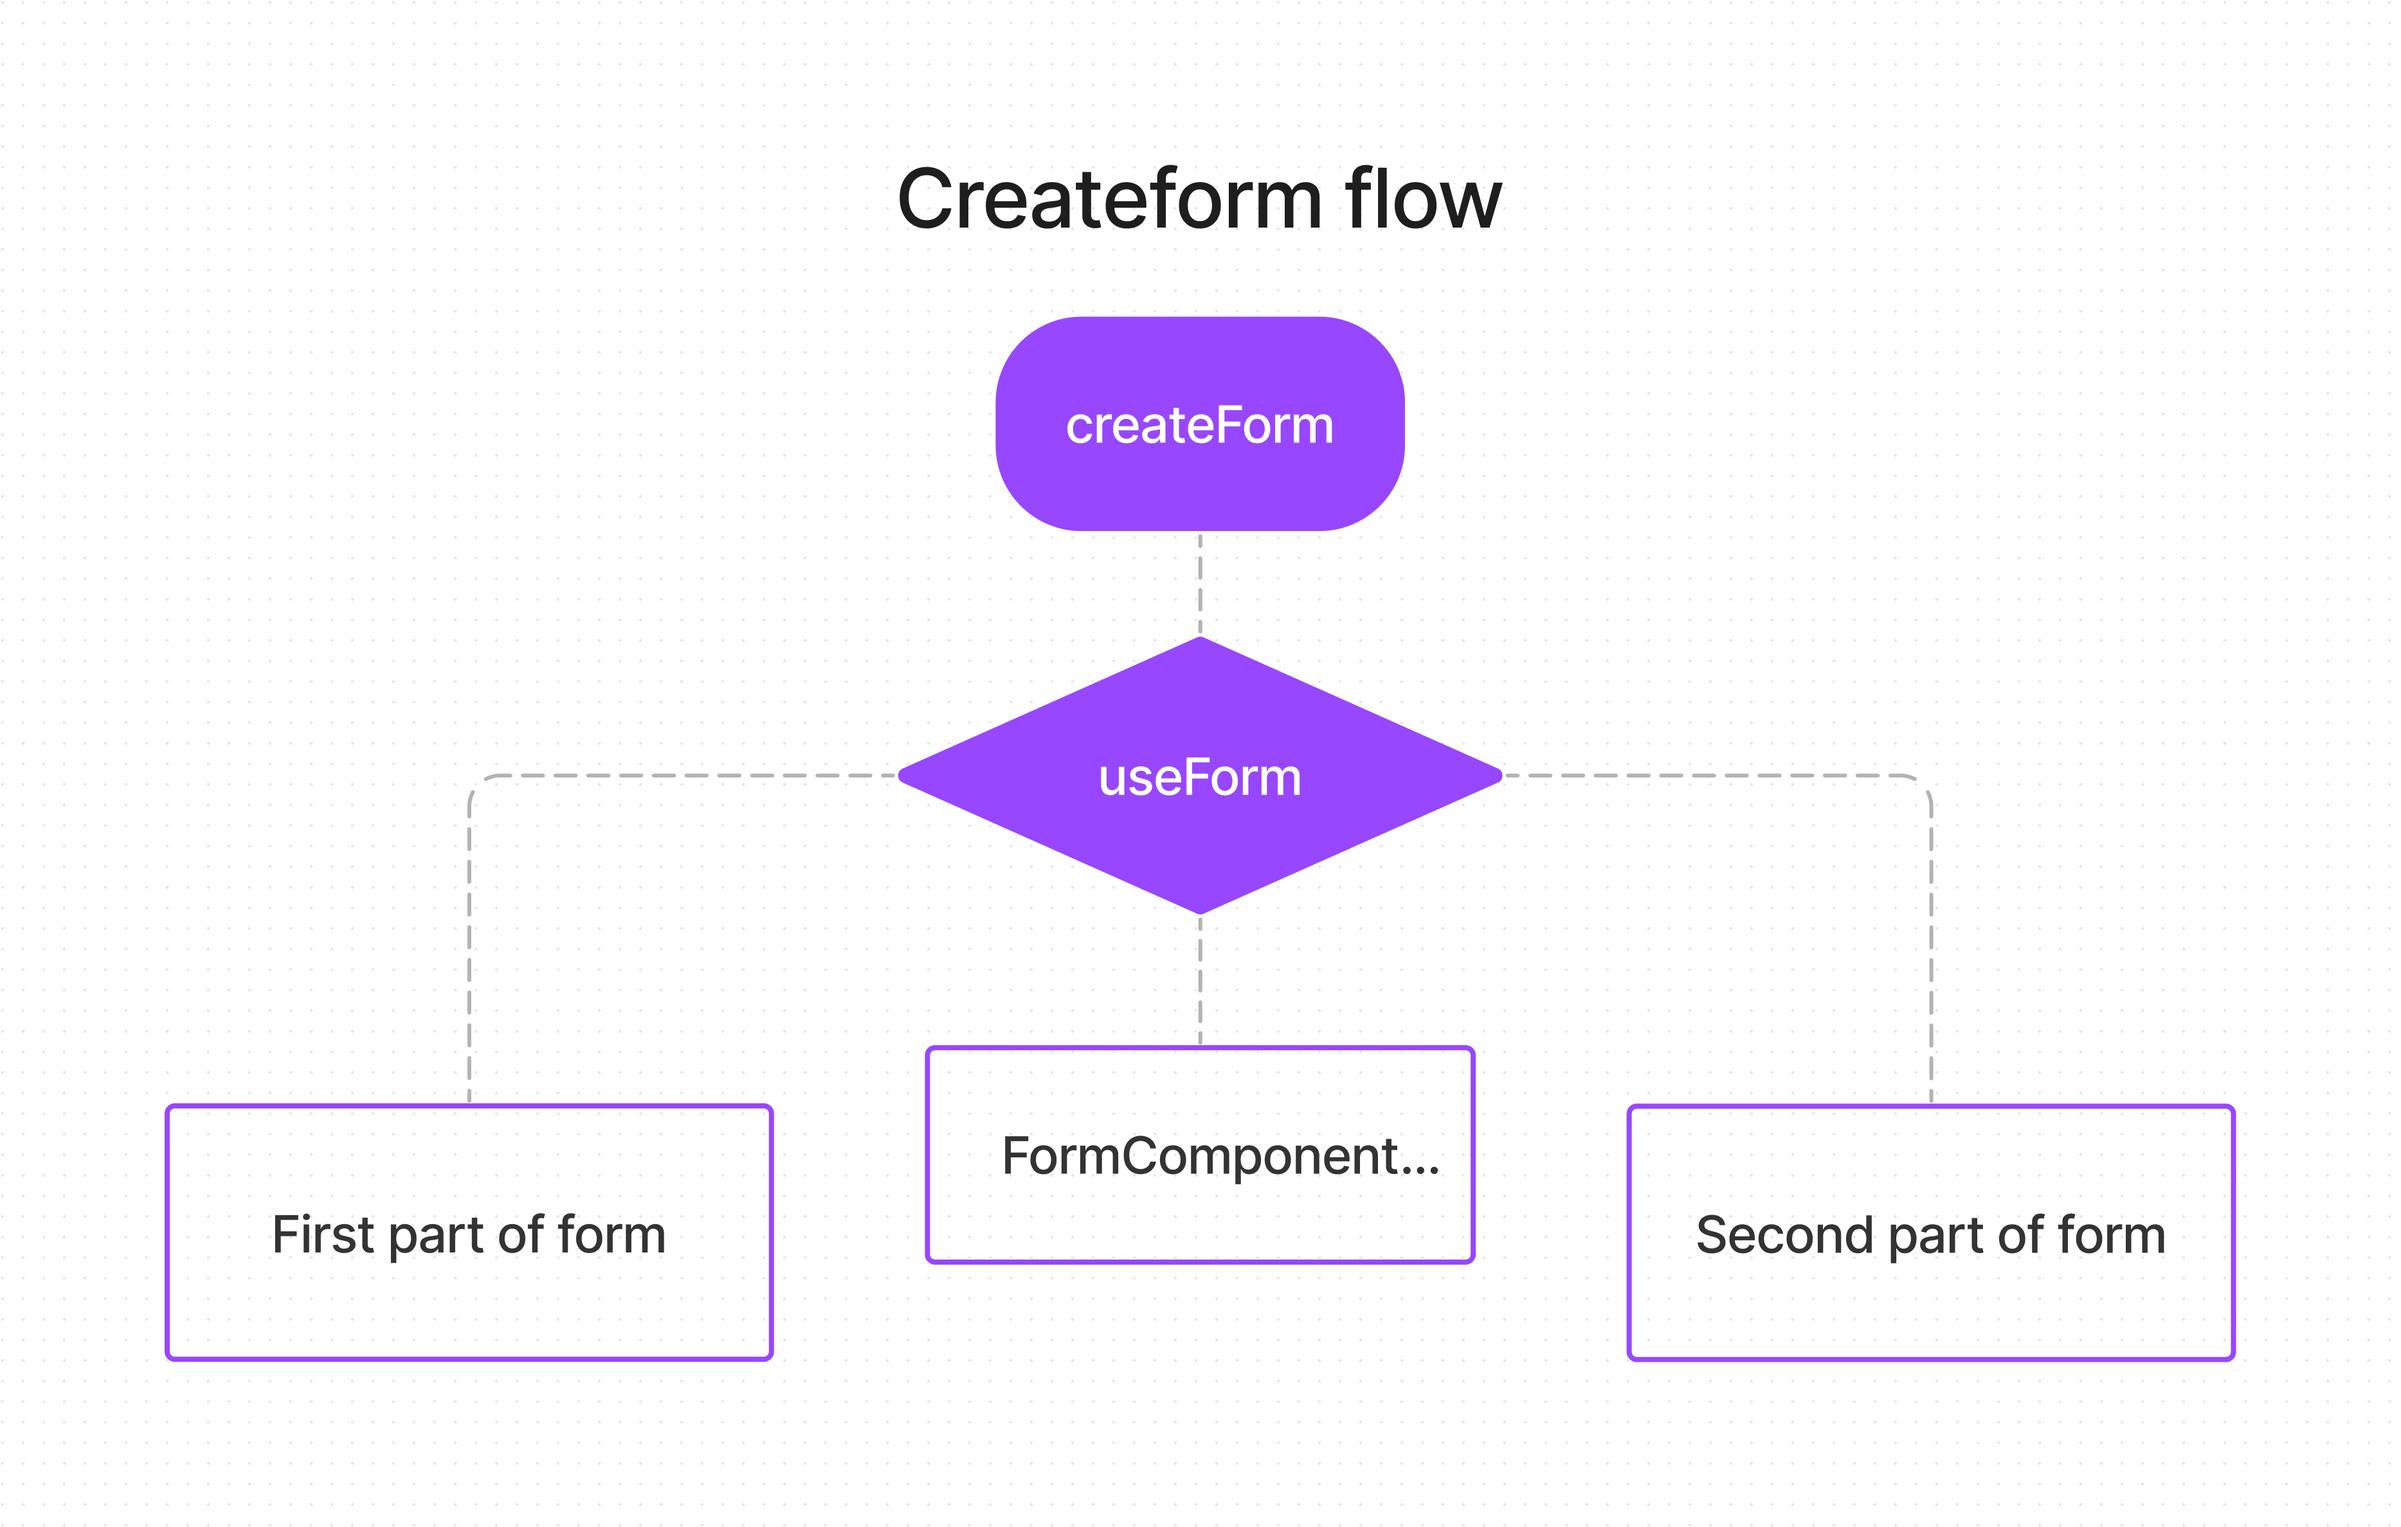
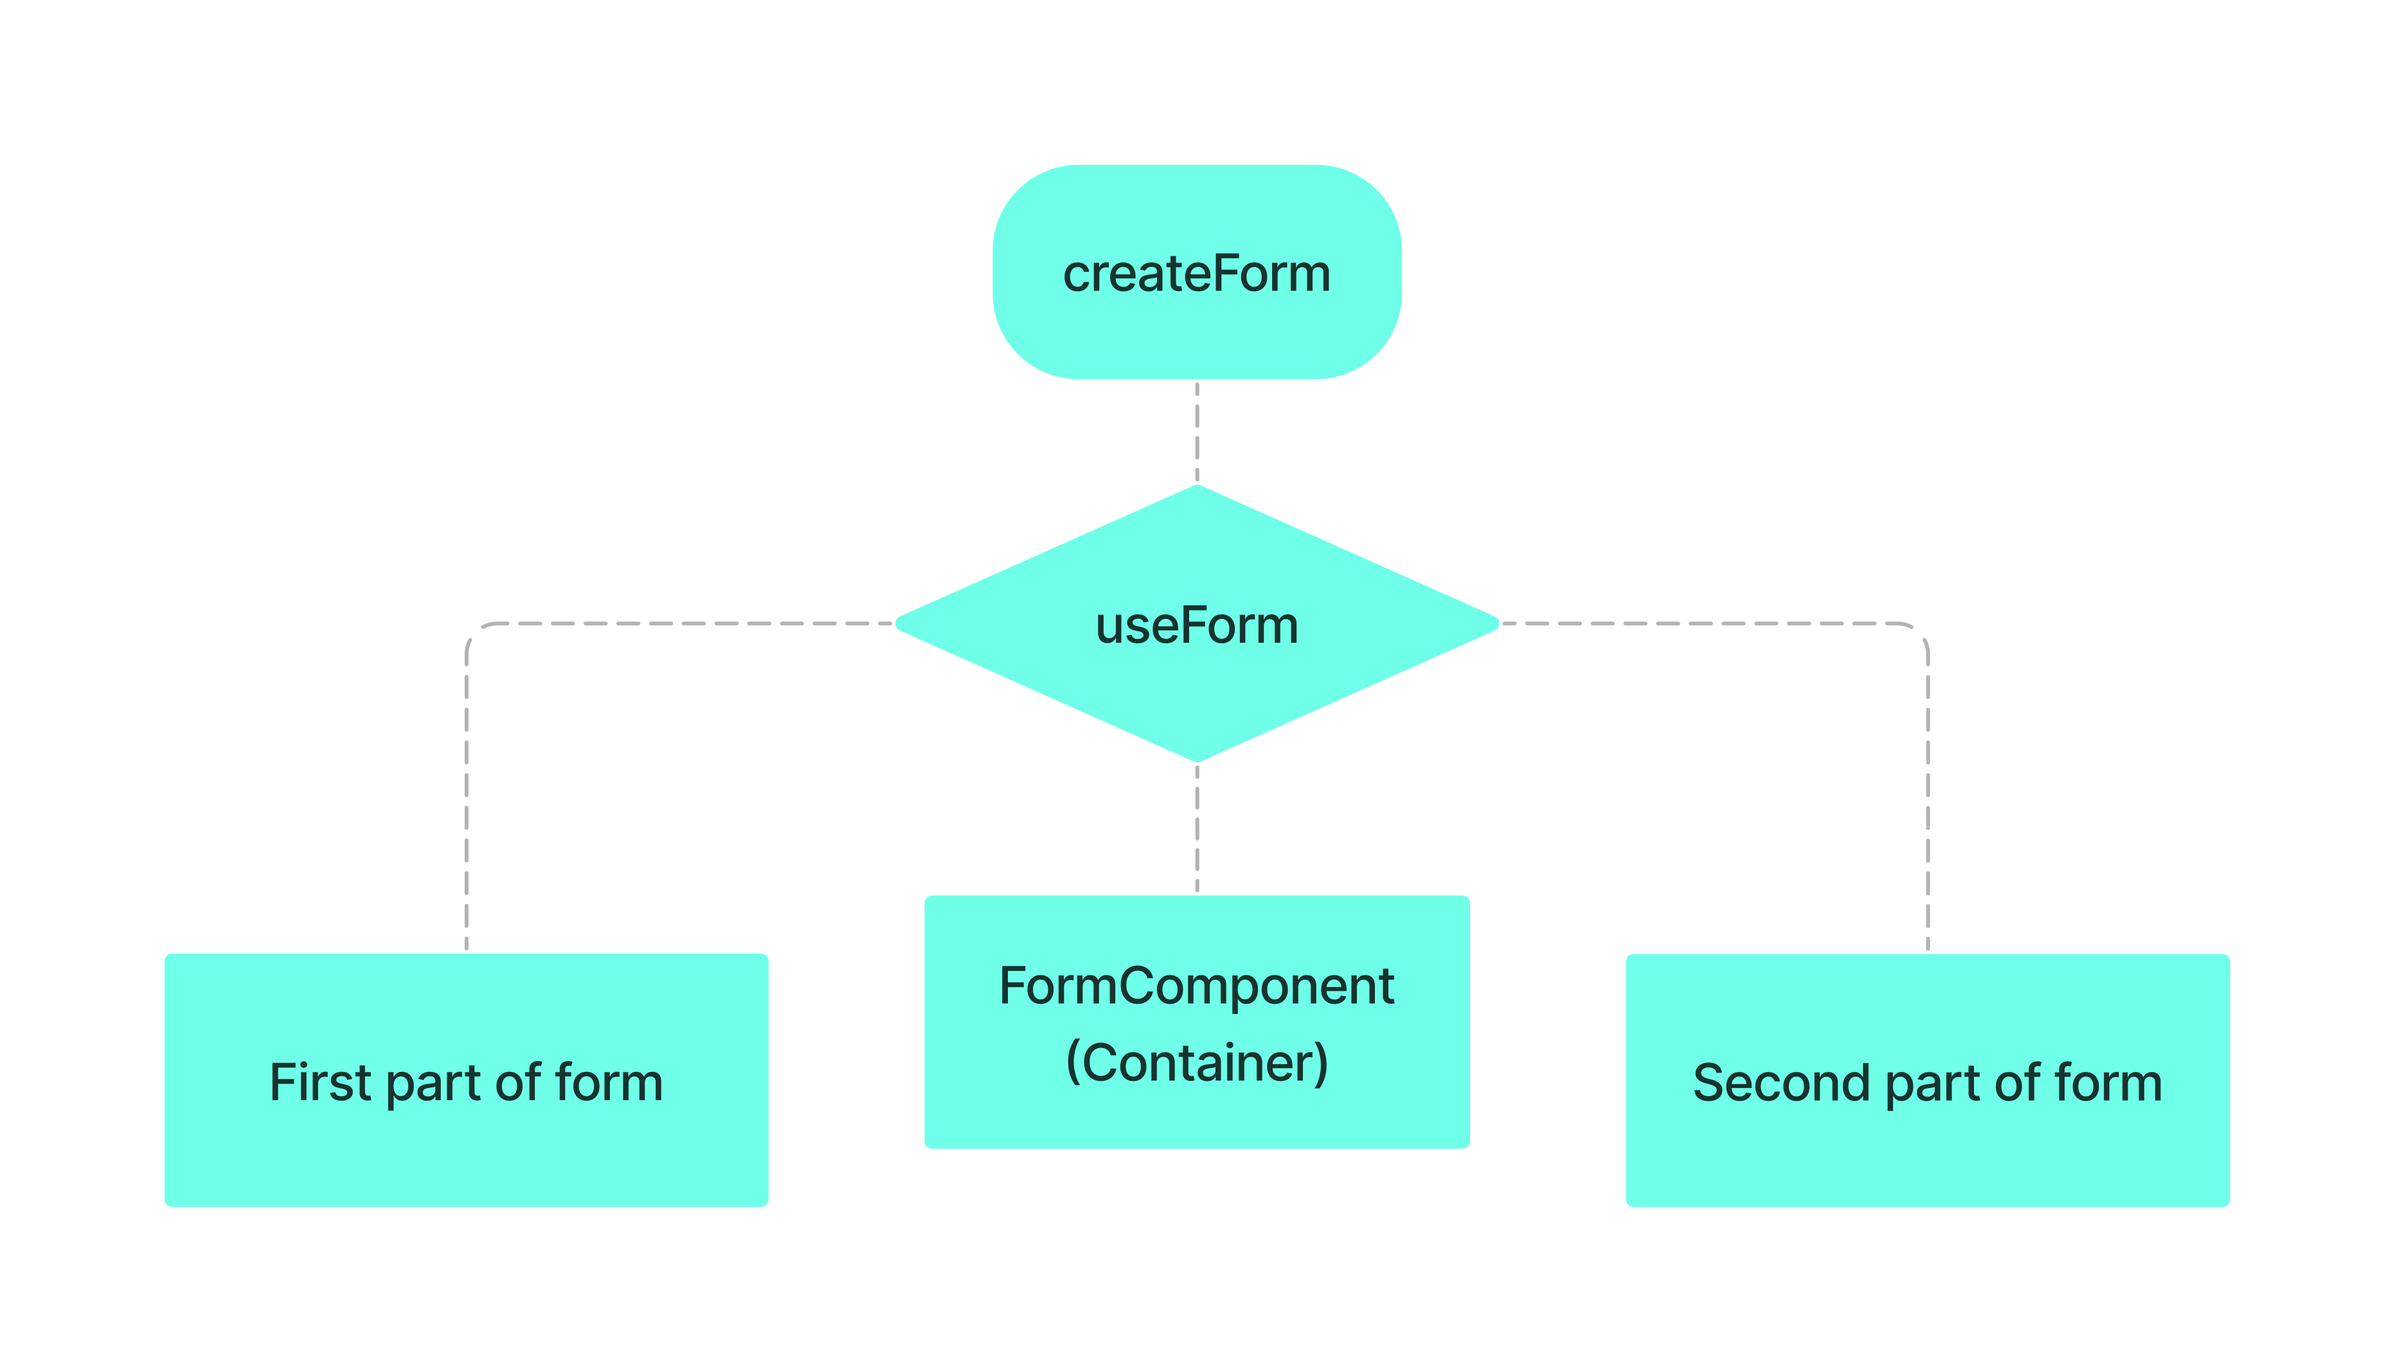
docs(readme): add more information about the library

diff --git a/docs/pages/index.js b/docs/pages/index.js
@@ -7,6 +7,7 @@ import { useTranslation, Code } from 'engrafia';
 import { Demo } from '../demo';
 import Link from 'next/link';
 import { Fork, Star } from 'react-github-buttons';
+import Image from 'next/image';
 
 const createForm = `const useForm = createForm({
   initialValues: {
@@ -48,7 +49,7 @@ export const getStaticProps = async () => {
 
 export default function Index() {
   const router = useRouter();
-  const t = useTranslation();
+
   return (
     <Grid.Container justify="center">
       <Grid.Container justify="center" direction="column" alignItems="center">
@@ -73,6 +74,11 @@ export default function Index() {
             Createform provides you with a simple way to create forms with React
           </Text>
         </Grid.Container>
+        <img
+          style={{ position: 'absolute', right: 20, top: 20 }}
+          src="/imgs/createform-flow-site.png"
+          width={600}
+        />
         <Grid.Container
           gap={2}
           justify="center"

diff --git a/packages/use-form/README.md b/packages/use-form/README.md
@@ -28,7 +28,18 @@ Overall, forms are an essential element of most websites and play a crucial role
 When we think about forms, react hooks are a game-changer, because they simplify the process of creating forms and don't require libraries.  
 However, if you want to build forms with nested fields and validations, it is better to use a library, and you can find a lot of libraries on internet, so, why another one?
 
-### Reasons to use Createform
+## How it works
+
+Createform uses an external store to keep the form state, but it's not enough, we need to share the state with other components without React Context. For this reason, we have a function called `createForm`;
+This function creates a form and returns a function that can be used as a hook, this hook is connected to the store, so whenever the store changes, the hook will be notified and the form will be updated.
+
+In other words, the `createForm` function creates a form and returns a function that has all resources to manage the form, if you use it ten times, it will be the same form and the same store being managed in different places.
+
+For that reason, we can use the same form in different components without providers or React Context API.
+
+![createform-flow](../../img/createform-flow.png)
+
+## Reasons to use Createform
 
 There are several motivations for using a custom form hook created by `createForm` in a React application. Some of these motivations include:
 
@@ -40,7 +51,7 @@ There are several motivations for using a custom form hook created by `createFor
 
 - **Separation of concerns**: A custom form hook created by `createForm` allows you to separate the concerns of form handling and data management from the rest of your application. This can make it easier to test and maintain your code, as well as improve the overall organization and structure of your application.
 
-### So, why Createform?
+## So, why Createform?
 
 There are some reasons why you face problems when you want to create forms, and with Createform, you can solve these problems.
 

diff --git a/README.md b/README.md
@@ -28,7 +28,18 @@ Overall, forms are an essential element of most websites and play a crucial role
 When we think about forms, react hooks are a game-changer, because they simplify the process of creating forms and don't require libraries.  
 However, if you want to build forms with nested fields and validations, it is better to use a library, and you can find a lot of libraries on internet, so, why another one?
 
-### Reasons to use Createform
+## How it works
+
+Createform uses an external store to keep the form state, but it's not enough, we need to share the state with other components without React Context. For this reason, we have a function called `createForm`;
+This function creates a form and returns a function that can be used as a hook, this hook is connected to the store, so whenever the store changes, the hook will be notified and the form will be updated.
+
+In other words, the `createForm` function creates a form and returns a function that has all resources to manage the form, if you use it ten times, it will be the same form and the same store being managed in different places.
+
+For that reason, we can use the same form in different components without providers or React Context API.
+
+![createform-flow](img/createform-flow.png)
+
+## Reasons to use Createform
 
 There are several motivations for using a custom form hook created by `createForm` in a React application. Some of these motivations include:
 
@@ -40,7 +51,7 @@ There are several motivations for using a custom form hook created by `createFor
 
 - **Separation of concerns**: A custom form hook created by `createForm` allows you to separate the concerns of form handling and data management from the rest of your application. This can make it easier to test and maintain your code, as well as improve the overall organization and structure of your application.
 
-### So, why Createform?
+## So, why Createform?
 
 There are some reasons why you face problems when you want to create forms, and with Createform, you can solve these problems.
 
